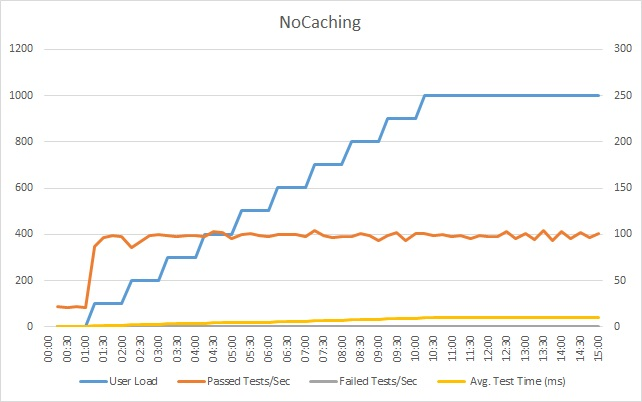
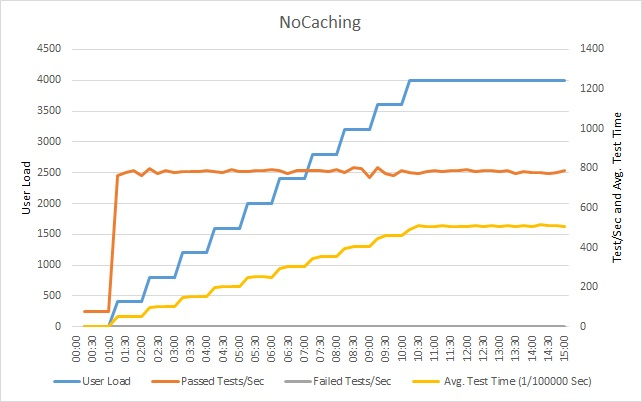
Updated load-test graphs with latest results

diff --git a/nocaching/docs/NoCaching.md b/nocaching/docs/NoCaching.md
@@ -91,7 +91,7 @@ Note that there may be some restrictions on the environment in which you can per
 
 Performing load-testing in a test environment can help to highlight any problems. Load-testing should simulate the pattern of data access observed in the production environment using realistic workloads. You can use a tool such as [Visual Studio Online][VisualStudioOnline] to run load tests and examine the results. 
 
-The following graph was generated from load-testing the CachingDemo sample application without using caching. The load-test simulates a step load of up to 1000 users in 100 user increments performing a typical series of operations against the system. Notice that the capacity of the system as measured by the number of successful tests performed each seconds reaches a plateau, and additional requests are slowed as a result - the average test time steadily increases up to 10 milliseconds with the work-load:
+The following graph was generated from load-testing the CachingDemo sample application without using caching. The load-test simulates a step load of up to 4000 users in 400 user increments performing a typical series of operations against the system. Notice that the capacity of the system as measured by the number of successful tests performed each seconds reaches a plateau, and additional requests are slowed as a result - the average test time steadily increases to just over 5 milliseconds with the work-load:
 
 ![Performance load-test results for the uncached scenario][Performance-Load-Test-Results-Uncached]
 
@@ -212,7 +212,7 @@ You should consider the following points concerning caching:
 ## Consequences of the solution
 Implementing caching may lead to a lack of immediate consistency; applications may not always read the most recent version of a data item. Applications should be designed around the principle of eventual consistency and tolerate being presented with old data. Applying time-based eviction policies to the cache can help to prevent cached data from becoming too stale, but any such policy must be balanced against the expected volatility of the data; data that is highly static and read often can reside in the cache for longer periods than dynamic information that may become stale quickly and which should be evicted more frequently.
 
-To determine the efficacy of any caching strategy, you should repeat load-testing after incorporating a cache and compare the results to those generated before the cache was added. The following results show the graph generated by load testing the CachingDemo sample solution with caching enabled. The volume of successful tests still reaches a plateau, but the rate is approximately 2.5 times that of the uncached solution. Similarly, although the average test time still increases with load, the maximum response time is approximately half that of the previous tests:
+To determine the efficacy of any caching strategy, you should repeat load-testing after incorporating a cache and compare the results to those generated before the cache was added. The following results show the graph generated by load testing the CachingDemo sample solution with caching enabled. The volume of successful tests still reaches a plateau, but the rate is approximately significantly higher than that of the uncached solution. Similarly, although the average test time still increases with load, the maximum response time is less than that of the previous tests (approximately 3.5 milliseconds):
 
 ![Performance load-test results for the cached scenario][Performance-Load-Test-Results-Cached]
 
